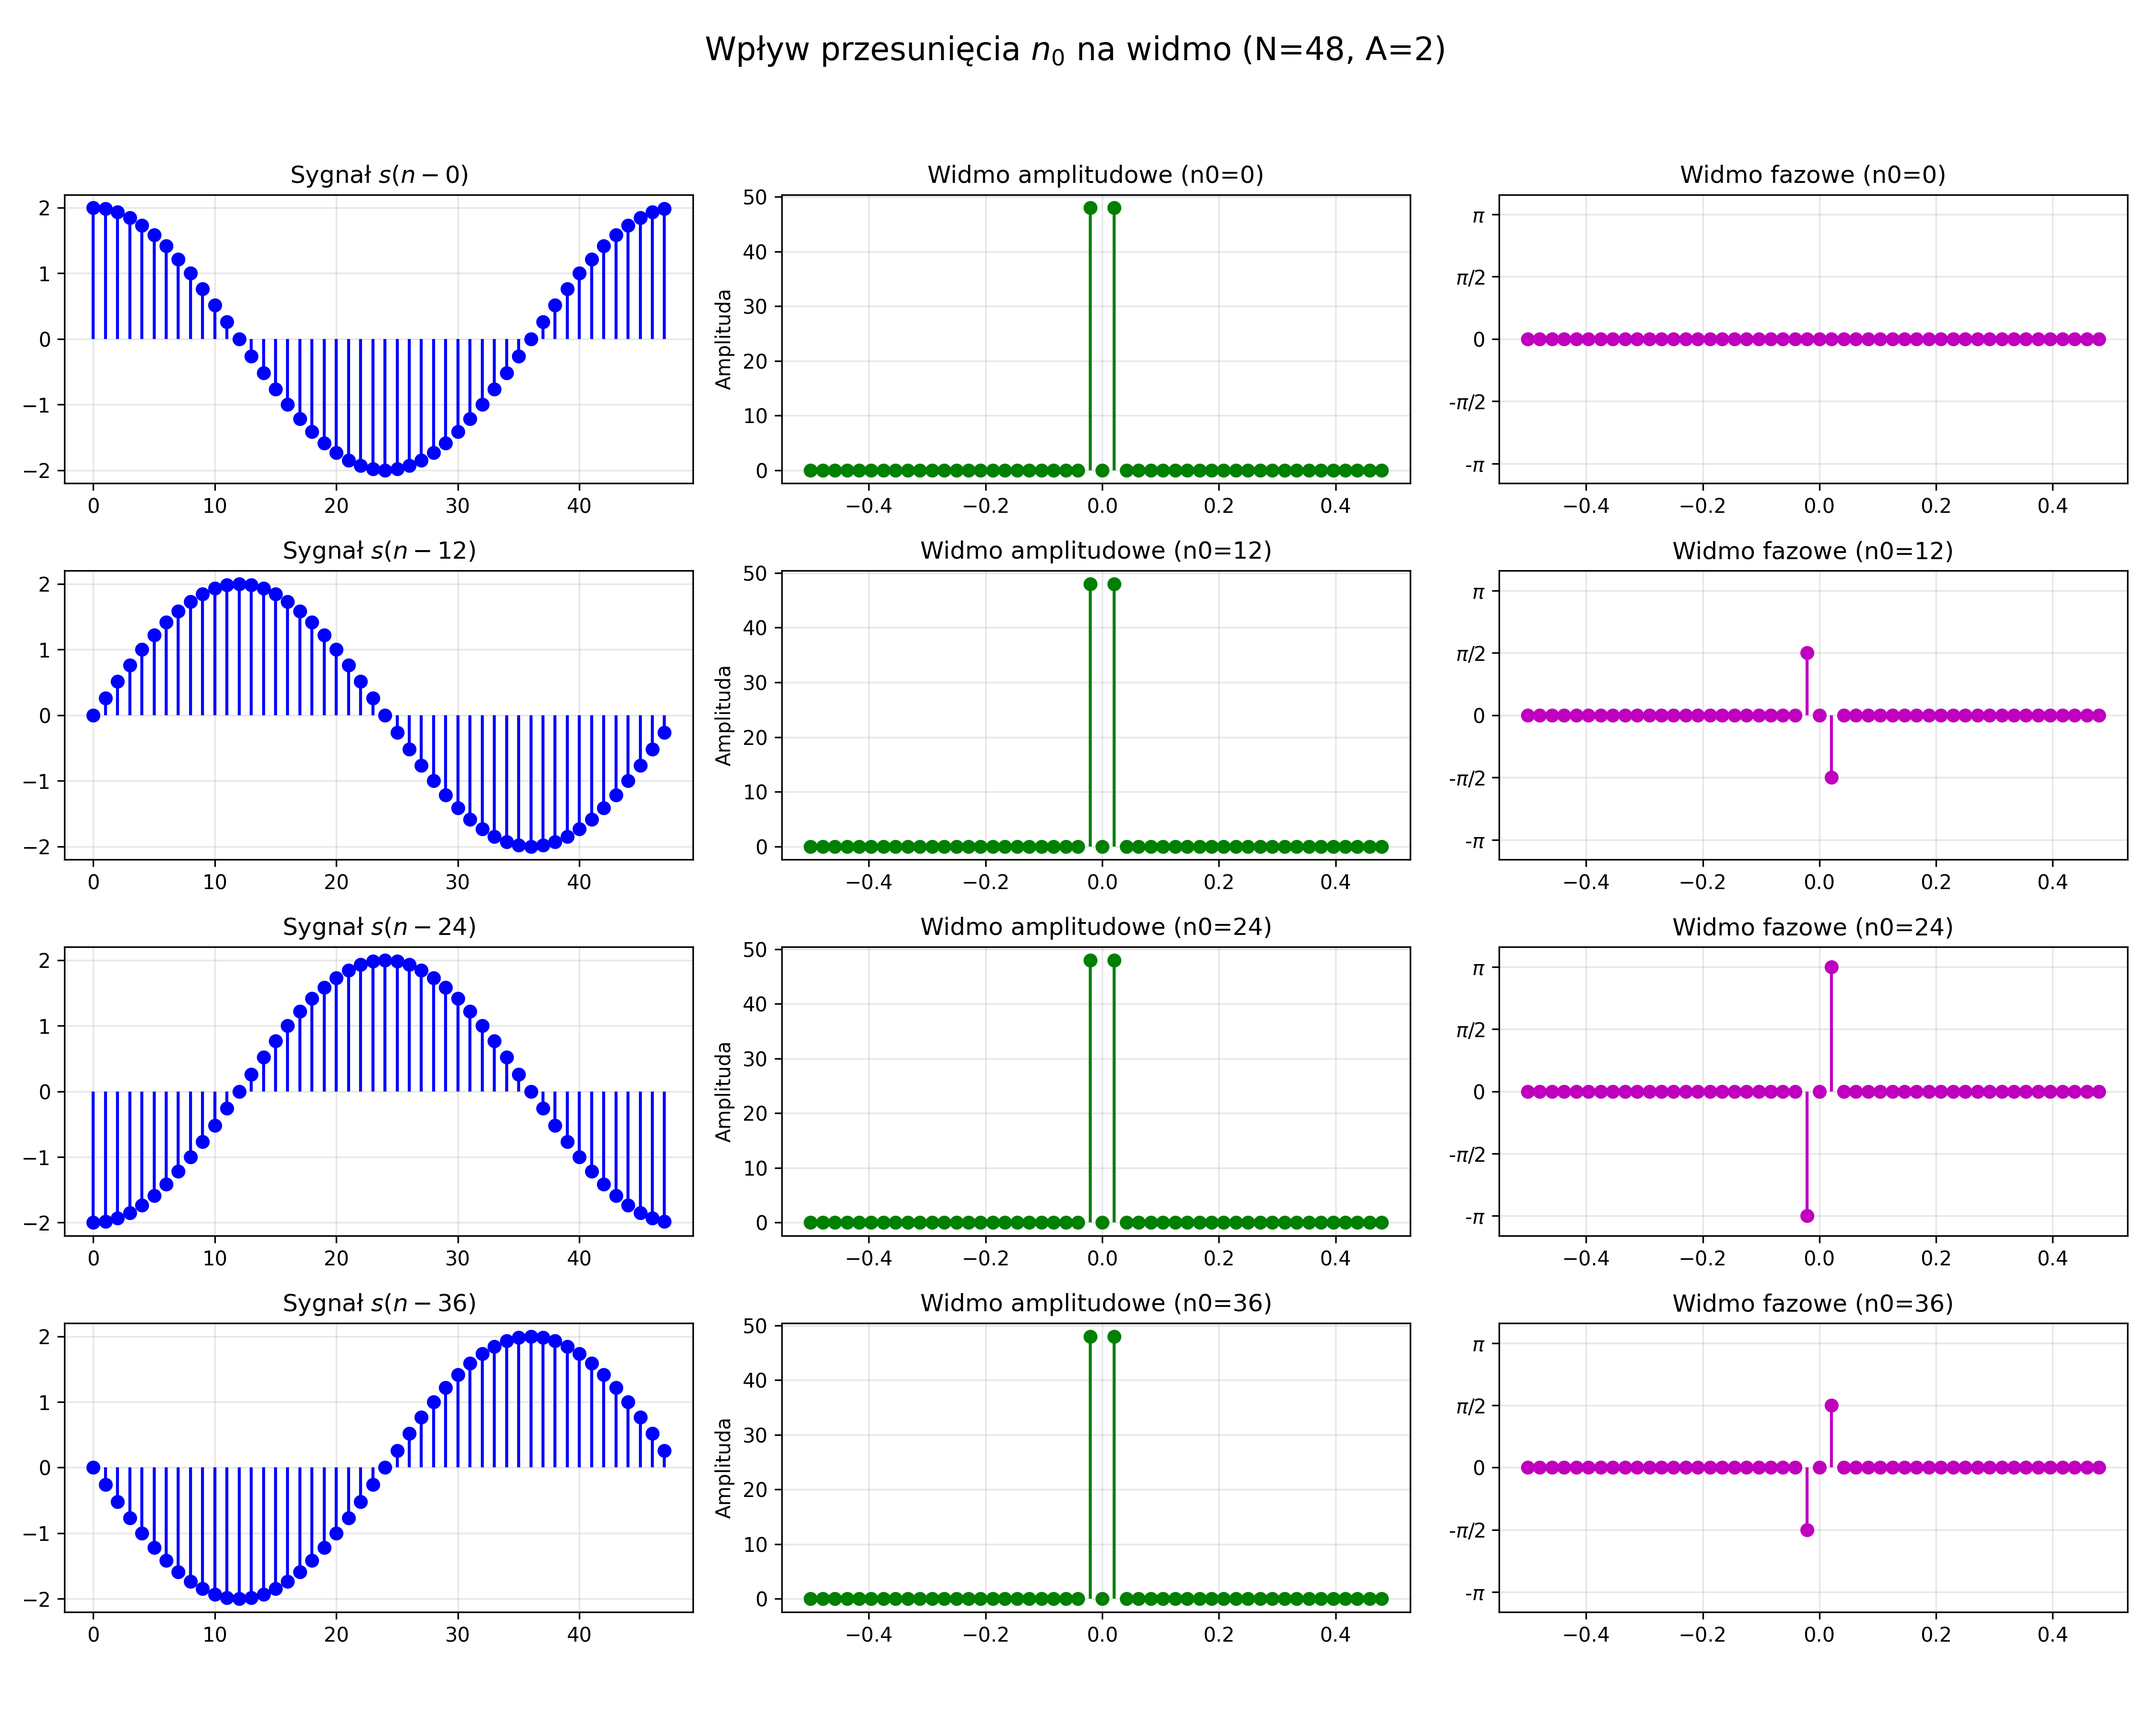
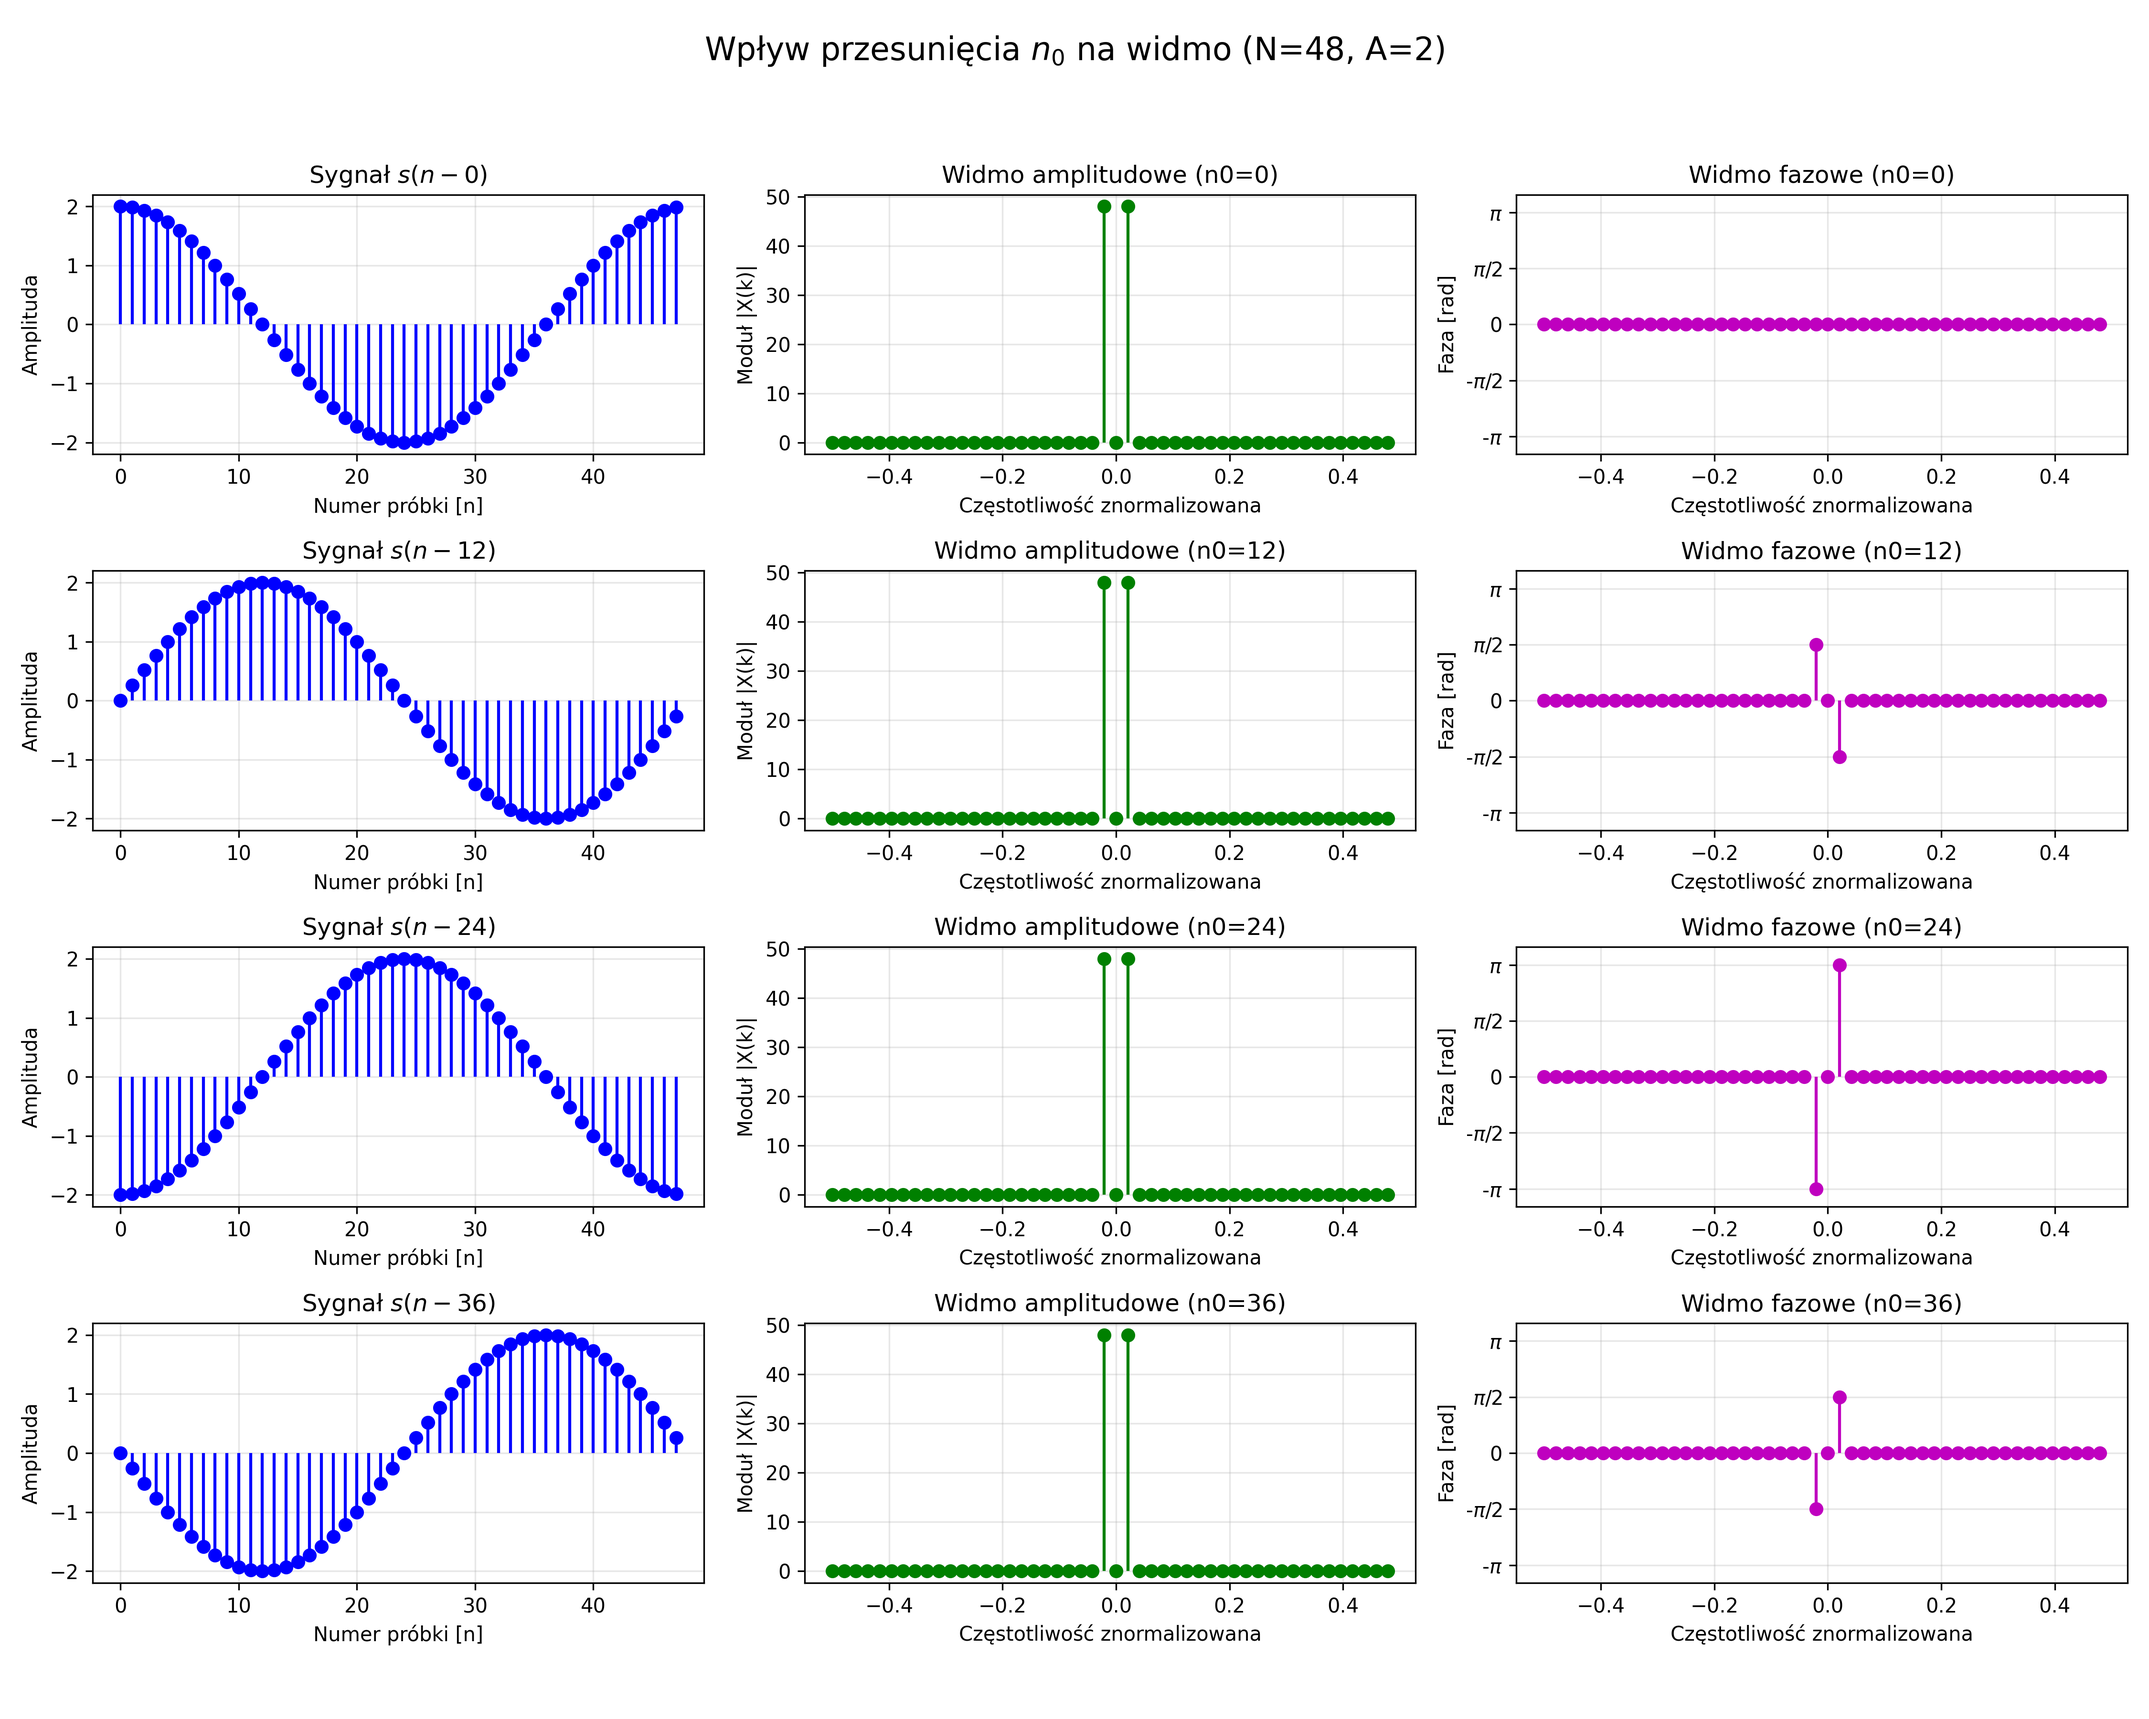
Added chart descriptions

diff --git a/104_kozakowski_liszewski.py b/104_kozakowski_liszewski.py
@@ -111,8 +111,7 @@ def exercise_two(N=48, A=2):
     n0_values = [0, int(N/4), int(N/2), int(3*N/4)]
 
     fig, axes = plt.subplots(len(n0_values), 3, figsize=(15, 12))
-    fig.suptitle(f'Wpływ przesunięcia $n_0$ na widmo (N={N}, A={A})',
-                 fontsize=16)
+    fig.suptitle(f'Wpływ przesunięcia $n_0$ na widmo (N={N}, A={A})', fontsize=16)
 
     for i, n0 in enumerate(n0_values):
         # Generowanie sygnału i przesunięcie kołowe
@@ -128,27 +127,31 @@ def exercise_two(N=48, A=2):
         amp = np.abs(Xk)
         phase = np.angle(Xk)
 
-        # Tłumienie "szumu" fazowego dla prążków o zerowej amplitudzie
+        # Tłumienie szumu fazowego dla prążków o zerowej amplitudzie
         phase[amp < 1e-10] = 0
 
         # Dziedzina czasu
         axes[i, 0].stem(n, s_shifted, linefmt='b', markerfmt='bo', basefmt=" ")
         axes[i, 0].set_title(f'Sygnał $s(n - {n0})$')
-        axes[i, 1].set_ylabel('Amplituda')
+        axes[i, 0].set_xlabel('Numer próbki [n]')
+        axes[i, 0].set_ylabel('Amplituda')
         axes[i, 0].grid(True, alpha=0.3)
 
         # Widmo amplitudowe
         axes[i, 1].stem(freqs, amp, linefmt='g', markerfmt='go', basefmt=" ")
         axes[i, 1].set_title(f'Widmo amplitudowe (n0={n0})')
+        axes[i, 1].set_xlabel('Częstotliwość znormalizowana')
+        axes[i, 1].set_ylabel('Moduł |X(k)|')
         axes[i, 1].grid(True, alpha=0.3)
 
         # Widmo fazowe
         axes[i, 2].stem(freqs, phase, linefmt='m', markerfmt='mo', basefmt=" ")
         axes[i, 2].set_title(f'Widmo fazowe (n0={n0})')
+        axes[i, 2].set_xlabel('Częstotliwość znormalizowana')
+        axes[i, 2].set_ylabel('Faza [rad]')
         axes[i, 2].set_ylim(-np.pi-0.5, np.pi+0.5)
         axes[i, 2].set_yticks([-np.pi, -np.pi/2, 0, np.pi/2, np.pi])
-        axes[i, 2].set_yticklabels(['-$\pi$', '-$\pi$/2', '0',
-                                    '$\pi$/2', '$\pi$'])
+        axes[i, 2].set_yticklabels(['-$\pi$', '-$\pi$/2', '0', '$\pi$/2', '$\pi$'])
         axes[i, 2].grid(True, alpha=0.3)
 
     plt.tight_layout(rect=[0, 0.03, 1, 0.95])
@@ -189,21 +192,30 @@ def exercise_three():
         amp_shifted = np.fft.fftshift(amp)
         phase_shifted = np.fft.fftshift(phase)
 
+        # Dziedzina czasu
         axes[i, 0].stem(range(total_N), s_padded, linefmt='b-', markerfmt='bo', basefmt="k-")
         axes[i, 0].set_title(f'Sygnał (Total N={total_N})')
+        axes[i, 0].set_xlabel('Numer próbki [n]')
+        axes[i, 0].set_ylabel('Amplituda')
         axes[i, 0].grid(True, alpha=0.3)
 
+        # Widmo amplitudowe
         axes[i, 1].stem(freqs_shifted, amp_shifted, linefmt='g-', markerfmt='go', basefmt="k-")
         axes[i, 1].set_title(f'Widmo amplitudowe (próbki)')
+        axes[i, 1].set_xlabel('Częstotliwość znormalizowana')
+        axes[i, 1].set_ylabel('Moduł |X(k)|')
         axes[i, 1].grid(True, alpha=0.3)
 
+        # Widmo fazowe
         axes[i, 2].stem(freqs_shifted, phase_shifted, linefmt='m-', markerfmt='mo', basefmt="k-")
         axes[i, 2].set_title(f'Widmo fazowe (próbki)')
+        axes[i, 2].set_xlabel('Częstotliwość znormalizowana')
+        axes[i, 2].set_ylabel('Faza [rad]')
         axes[i, 2].set_ylim(-np.pi-0.5, np.pi+0.5)
         axes[i, 2].grid(True, alpha=0.3)
 
     plt.tight_layout(rect=[0, 0.03, 1, 0.95])
-    plt.savefig('3_zero_padding_analisys.png', dpi=300)
+    plt.savefig('3_zero_padding_analysis.png', dpi=300)
     plt.show()
 
 
